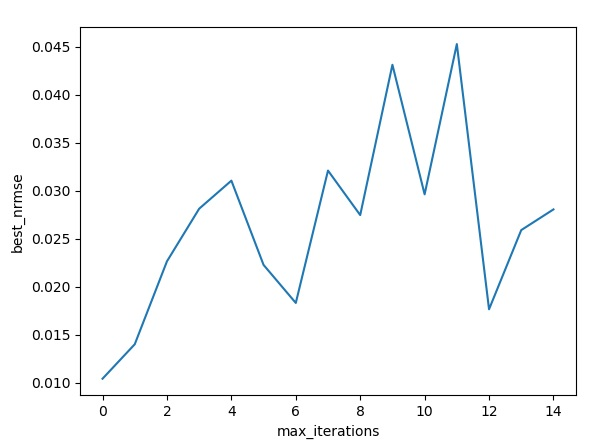
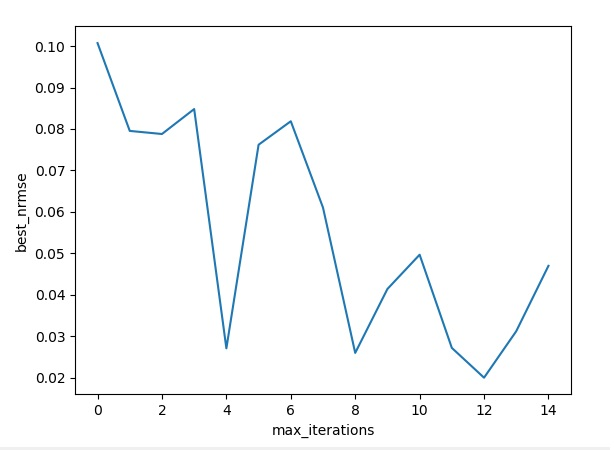
Fix

diff --git a/iteration_plotter.py b/iteration_plotter.py
@@ -13,9 +13,10 @@ for max_iterations in range(num_iterations):
     #train_loss, test_loss, _ = model({'learning_rate': parameters.gradient_descent['learning_rate'],
     #                               'regularization_strength': parameters.gradient_descent['regularization_strength'],
     #                               'num_iterations': max_iterations + 1})
+    print('Max iterations: {}: '.format(max_iterations + 1))
 
     train_loss, test_loss, _ = model({'mutation_amplitude': parameters.genetic['mutation_amplitude'], 'regularization_strength': parameters.genetic['regularization_strength'],
-                                                          'num_chromosomes': parameters.genetic['num_chromosomes'], 'num_generations': num_iterations + 1,
+                                                          'num_chromosomes': parameters.genetic['num_chromosomes'], 'num_generations': max_iterations + 1,
                                                           'parent_proportion': parameters.genetic['parent_proportion'], 'random_gene_amplitude': parameters.genetic['random_gene_amplitude']})
 
     best_losses.append(min(test_loss))
